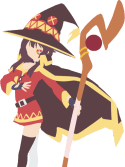
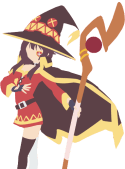
Fix layout differences between day/night mode (fixes #493)

diff --git a/public/css/style-night.css b/public/css/style-night.css
@@ -56,25 +56,9 @@
     background-color: #29363d;
 }
 
- /* #container.cont-home {
-     background: #29363d url(/img/megumin.png) no-repeat;
-}
-#container.cont-view {
-     background: #29363d url(/img/megumin.png) no-repeat;
-     background-size: 75px;
-}
-*/
-img#mascot {
-	display:block;
+li#mascot {
 	background-image: url(/img/megumin.png);
-	box-sizing: border-box;
-	height: 167px;
-	width: 125px;
-	padding-left: 125px;
 }
-/*The above is thanks to https://css-tricks.com/replace-the-image-in-an-img-with-css/
-Used to avoid the layout bugs caused by pure css background mascots, while still avoiding
-JS to switch the images.*/
 
 body {
     background-color:#282A2E;

diff --git a/public/css/style.css b/public/css/style.css
@@ -59,16 +59,13 @@ padding:2px 0;
     background: white;
 }
 
-
-/*
-#container.cont-home {
-     background: white url(/img/renchon.png) no-repeat;
+li#mascot {
+	background-image: url(/img/renchon.png);
+	width: 125px;
+	height: 169px;
+	margin-bottom: -5px;
 }
-#container.cont-view {
-     background: white url(/img/renchon.png) no-repeat;
-     background-size: 61px;
-}
-*/
+/* This used to avoid usage of Javascript for switching images. */
 
 body {
     background-color: #ececec;

diff --git a/templates/home.html b/templates/home.html
@@ -3,7 +3,7 @@
 {{define "content"}}
   <div class="blockBody">
       <ul class="list-inline" aria-label="Page navigation">
-          <li><img id="mascot" src="/img/renchon.png" /></li>
+          <li id="mascot"></li>
           <li style="padding-top: 7%;" class="pull-right"><ul class="pagination">
               {{ genNav .Navigation .URL 5 }}
           </ul></li>
